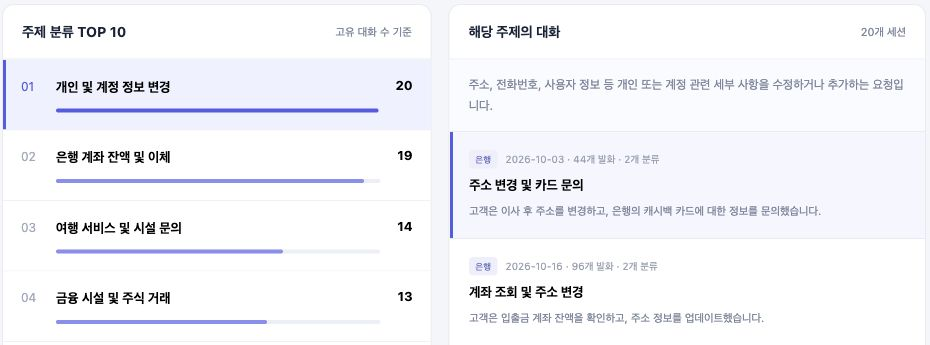
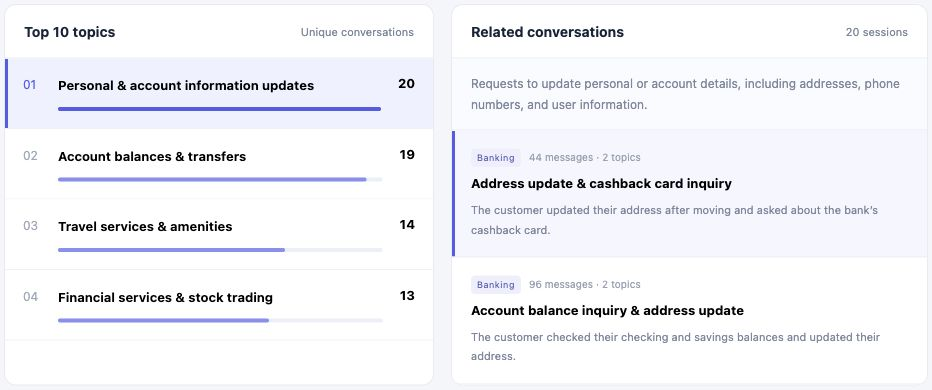
docs: translate research demo preview into English

diff --git a/README.md b/README.md
@@ -2,9 +2,9 @@
 
 **Provider-independent topic analytics for continuously arriving, closed conversations.**
 
-<a href="docs/assets/demo-dashboard.jpg"><img src="docs/assets/demo-dashboard.jpg" width="930" alt="Research demo with model-generated topic rankings, linked conversation summaries from DSTC12"></a>
+<a href="docs/assets/demo-dashboard.jpg"><img src="docs/assets/demo-dashboard.jpg" width="932" alt="Research demo with model-generated topic rankings, linked conversation summaries from DSTC12"></a>
 
-*Research prototype using DSTC12 conversations, with topics and summaries generated by local Gemma and EmbeddingGemma models. This earlier Korean research UI differs from the English app included here; the quick-start demo uses original synthetic conversations. Dates are simulated.*
+*Research prototype using DSTC12 conversations, with topics and summaries generated by local Gemma and EmbeddingGemma models. Labels and summaries are translated into English for this preview. This research UI differs from the app included here; the quick-start demo uses original synthetic conversations. Dates are simulated.*
 
 *Screenshot data source: [Amazon Science DSTC12 theme detection dataset](https://github.com/amazon-science/dstc12-controllable-conversational-theme-detection), under [CC BY-NC 4.0](https://github.com/amazon-science/dstc12-controllable-conversational-theme-detection/blob/main/LICENSE). The dataset-derived screenshot is excluded from this repository's MIT license and retains the source's noncommercial terms. Displayed topic labels and summaries are model-generated; the source dataset is not bundled.*
 
